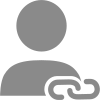
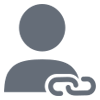
1.Change the function image of usercontrolwidget; 2.Add serverIP presentation to the bottom-left corner of mainwidget
git-svn-id: https://jordanhjcfa2/svn/Dispatch@52 d7a704a3-36dc-f24c-a29c-5963a31686d5

diff --git a/DispatchApp/DispatchApp/Client/CallUserControl.xaml b/DispatchApp/DispatchApp/Client/CallUserControl.xaml
@@ -205,21 +205,21 @@
                 Width="100" Style="{DynamicResource RoundedButton}" 
                 Click="Button_Transfer" >
                 <StackPanel VerticalAlignment="Top">
-                    <Image Height="64" Source="../Resources/call_transfer.png" Width="64" />
+                    <Image Height="64" Source="../Resources/call_transfer_dark.png" Width="64" />
                     <TextBlock Block.TextAlignment="Center" FontFamily="SimHei" FontSize="30" Grid.Column="0" Height="34" Margin="0,0,0,4" Text="转接" VerticalAlignment="Bottom" Width="80" />
                 </StackPanel>
             </Button>
             <Button Name="btn_insert"
                 Width="100" Click="Button_Insert" Style="{DynamicResource RoundedButton}">
                 <StackPanel VerticalAlignment="Top">
-                    <Image Height="64" Source="/DispatchApp;component/Resources/call_insert.png" Width="64" />
+                    <Image Height="64" Source="/DispatchApp;component/Resources/call_insert_dark.png" Width="64" />
                     <TextBlock Block.TextAlignment="Center" FontFamily="SimHei" FontSize="30" Grid.Column="0" Height="34" Margin="0,0,0,4" Text="强插" VerticalAlignment="Bottom" Width="80" />
                 </StackPanel>
             </Button>
             <Button Name="btn_split"
                 Width="100" Click="Button_Split" Style="{DynamicResource RoundedButton}">
                 <StackPanel VerticalAlignment="Top">
-                    <Image Height="64" Source="../Resources/call_split.png" Width="64" />
+                    <Image Height="64" Source="../Resources/call_split_dark.png" Width="64" />
                     <TextBlock Block.TextAlignment="Center" FontFamily="SimHei" FontSize="30" Grid.Column="0" Height="34" Margin="0,0,0,4" Text="强拆" VerticalAlignment="Bottom" Width="80" />
                 </StackPanel>
             </Button>
@@ -271,7 +271,7 @@
                 Width="100"
                 Style="{DynamicResource RoundedButton}">
                 <StackPanel VerticalAlignment="Top">
-                    <Image Source="../Resources/night_portrait.png" 
+                    <Image Source="../Resources/night_portrait_dark.png" 
                         Height="64" Width="64" />
                     <TextBlock Text="夜服"
                         Block.TextAlignment="Center" 
@@ -292,7 +292,7 @@
             <Button x:Name="btn_meeting"
                     Width="100" Click="Button_Meeting" Style="{DynamicResource RoundedButton}" Margin="13,0">
                 <StackPanel VerticalAlignment="Top">
-                    <Image Height="64" Source="../Resources/groupconf.png" Width="64" />
+                    <Image Height="64" Source="../Resources/groupconf_dark.png" Width="64" />
                     <TextBlock Block.TextAlignment="Center" FontFamily="SimHei" FontSize="30" Grid.Column="0" Height="34" Margin="0,0,0,4" Text="会议" VerticalAlignment="Bottom" Width="80" />
                 </StackPanel>
             </Button>

diff --git a/DispatchApp/DispatchApp/MainWindow.xaml b/DispatchApp/DispatchApp/MainWindow.xaml
@@ -2,7 +2,6 @@
         x:Class="DispatchApp.MainWindow"
         xmlns="http://schemas.microsoft.com/winfx/2006/xaml/presentation"
         xmlns:x="http://schemas.microsoft.com/winfx/2006/xaml"
-        FontFamily="simHei"
         xmlns:local="clr-namespace:DispatchApp"
         Title="MainWindow" Height="1080" Width="1920" ResizeMode="CanMinimize" mc:Ignorable="d" 
         Margin="0" 
@@ -151,8 +150,9 @@
             </Label>
             
             <!--底部-->
-            <StackPanel Grid.Row="3">
-                <Label Content="服务器IP:" Foreground="#FFD8D7D7" FontSize="22" HorizontalAlignment="Left" Width="277"/>
+            <StackPanel Grid.Row="3" Orientation="Horizontal">
+                <Label Content="服务器IP:" Foreground="#FFD8D7D7" FontSize="22" HorizontalAlignment="Left" Width="109" Margin="0,0,0,0.4"/>
+                <TextBlock Name="serverIP" Text="127.0.0.1" VerticalAlignment="Center" Foreground="#FFD8D7D7" FontSize="22" HorizontalAlignment="Left" Width="277"/>
             </StackPanel>
             
             <!--界面内容容器-->

diff --git a/DispatchApp/DispatchApp/Properties/Resources.Designer.cs b/DispatchApp/DispatchApp/Properties/Resources.Designer.cs
@@ -103,6 +103,16 @@ namespace DispatchApp.Properties {
         /// <summary>
         ///   查找 System.Drawing.Bitmap 类型的本地化资源。
         /// </summary>
+        internal static System.Drawing.Bitmap call_hold_dark {
+            get {
+                object obj = ResourceManager.GetObject("call_hold_dark", resourceCulture);
+                return ((System.Drawing.Bitmap)(obj));
+            }
+        }
+        
+        /// <summary>
+        ///   查找 System.Drawing.Bitmap 类型的本地化资源。
+        /// </summary>
         internal static System.Drawing.Bitmap call_ing {
             get {
                 object obj = ResourceManager.GetObject("call_ing", resourceCulture);
@@ -123,6 +133,16 @@ namespace DispatchApp.Properties {
         /// <summary>
         ///   查找 System.Drawing.Bitmap 类型的本地化资源。
         /// </summary>
+        internal static System.Drawing.Bitmap call_insert_dark {
+            get {
+                object obj = ResourceManager.GetObject("call_insert_dark", resourceCulture);
+                return ((System.Drawing.Bitmap)(obj));
+            }
+        }
+        
+        /// <summary>
+        ///   查找 System.Drawing.Bitmap 类型的本地化资源。
+        /// </summary>
         internal static System.Drawing.Bitmap call_split {
             get {
                 object obj = ResourceManager.GetObject("call_split", resourceCulture);
@@ -133,9 +153,29 @@ namespace DispatchApp.Properties {
         /// <summary>
         ///   查找 System.Drawing.Bitmap 类型的本地化资源。
         /// </summary>
+        internal static System.Drawing.Bitmap call_split_dark {
+            get {
+                object obj = ResourceManager.GetObject("call_split_dark", resourceCulture);
+                return ((System.Drawing.Bitmap)(obj));
+            }
+        }
+        
+        /// <summary>
+        ///   查找 System.Drawing.Bitmap 类型的本地化资源。
+        /// </summary>
         internal static System.Drawing.Bitmap call_transfer {
             get {
                 object obj = ResourceManager.GetObject("call_transfer", resourceCulture);
+                return ((System.Drawing.Bitmap)(obj));
+            }
+        }
+        
+        /// <summary>
+        ///   查找 System.Drawing.Bitmap 类型的本地化资源。
+        /// </summary>
+        internal static System.Drawing.Bitmap call_transfer_dark {
+            get {
+                object obj = ResourceManager.GetObject("call_transfer_dark", resourceCulture);
                 return ((System.Drawing.Bitmap)(obj));
             }
         }
@@ -196,6 +236,16 @@ namespace DispatchApp.Properties {
         internal static System.Drawing.Bitmap groupconf {
             get {
                 object obj = ResourceManager.GetObject("groupconf", resourceCulture);
+                return ((System.Drawing.Bitmap)(obj));
+            }
+        }
+        
+        /// <summary>
+        ///   查找 System.Drawing.Bitmap 类型的本地化资源。
+        /// </summary>
+        internal static System.Drawing.Bitmap groupconf_dark {
+            get {
+                object obj = ResourceManager.GetObject("groupconf_dark", resourceCulture);
                 return ((System.Drawing.Bitmap)(obj));
             }
         }
@@ -326,6 +376,16 @@ namespace DispatchApp.Properties {
         internal static System.Drawing.Bitmap monitor {
             get {
                 object obj = ResourceManager.GetObject("monitor", resourceCulture);
+                return ((System.Drawing.Bitmap)(obj));
+            }
+        }
+        
+        /// <summary>
+        ///   查找 System.Drawing.Bitmap 类型的本地化资源。
+        /// </summary>
+        internal static System.Drawing.Bitmap night_portrait_dark {
+            get {
+                object obj = ResourceManager.GetObject("night_portrait_dark", resourceCulture);
                 return ((System.Drawing.Bitmap)(obj));
             }
         }

diff --git a/DispatchApp/DispatchApp/MainWindow.xaml.cs b/DispatchApp/DispatchApp/MainWindow.xaml.cs
@@ -63,6 +63,8 @@ namespace DispatchApp
             get { return m_ServerIP; }
             set { 
                 m_ServerIP = value;
+                // 界面左下角显示服务器IP
+                this.serverIP.Text = value;
                 saveUserOption();
             }
         }
